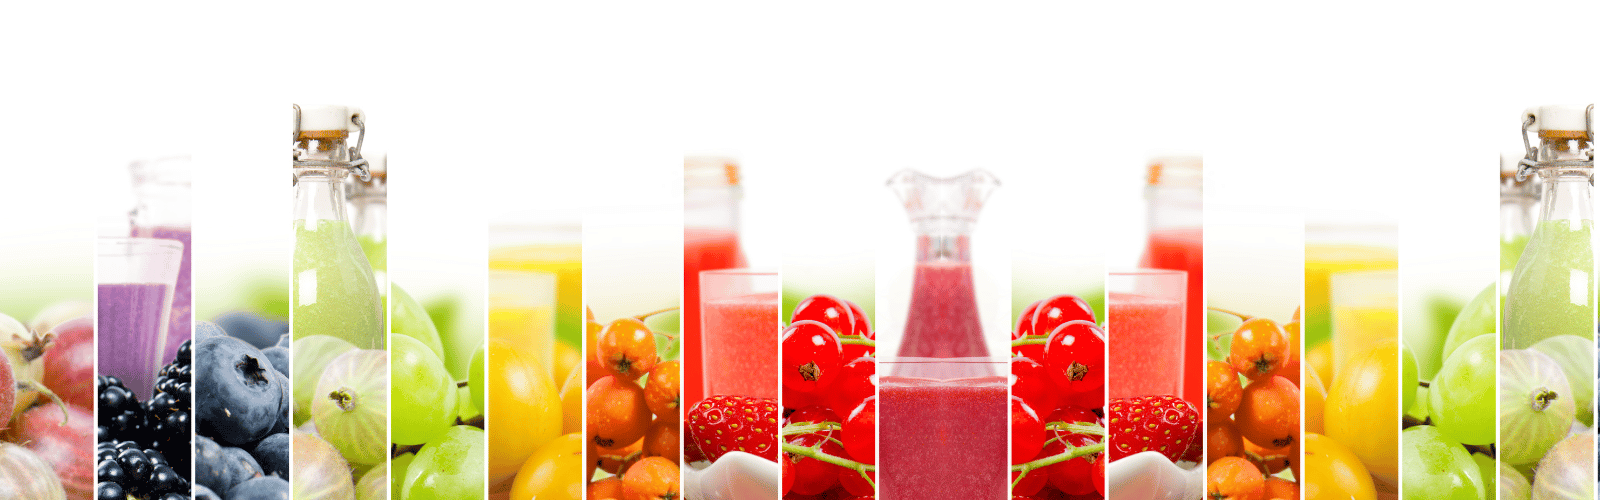
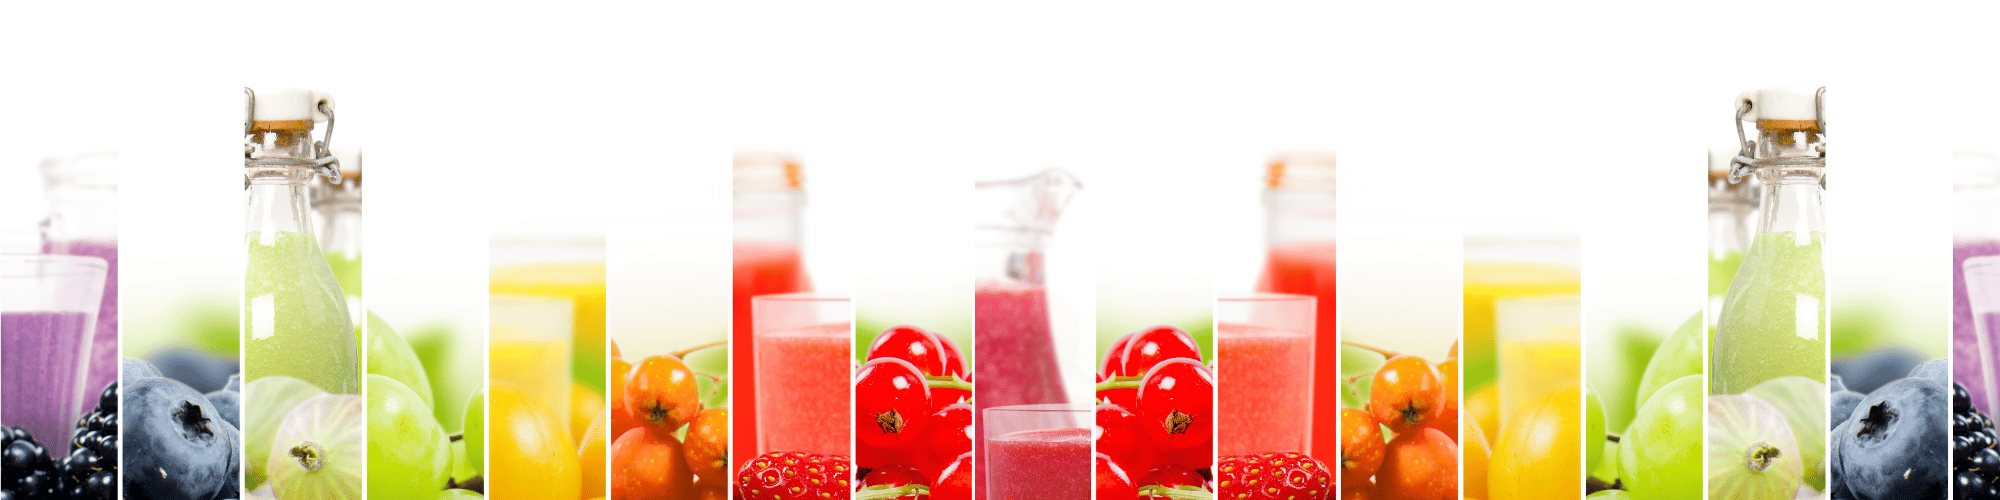
update

diff --git a/bountiful-foods/blog.html b/bountiful-foods/blog.html
@@ -35,7 +35,7 @@
         <picture class="header-img-wrapper">
             <source media="(min-width: 900px)" srcset="images/hero-img-large.webp 1x">
             <source media="(min-width: 400px)" srcset="images/hero-img-med.webp 1x">
-            <img src="images/hero-img-small.webp" alt="hero-image" loading="lazy" width="1200" height="500">
+            <img src="images/hero-img-small.webp" alt="hero-image" loading="lazy" width="1600" height="500">
         </picture>
         <h1>BOUNTIFUL FOODS</h1>
         <h2>HEALTHY FRESH</h2>
@@ -43,9 +43,8 @@
     <main class="main-wrapper">
         <div id="blog-title-wrapper">
             <picture class="blog-img-wrapper">
-                <source media="(min-width: 900px)" srcset="images/food-truck-large.webp 1x">
-                <source media="(min-width: 400px)" srcset="images/food-truck-med.webp 1x">
-                <img src="images/food-truck-small.webp" alt="food-truck" width="1200" height="500" loading="lazy">
+                <source media="(min-width: 400px)" srcset="images/blog-food-truck-med.webp 1x">
+                <img src="images/blog-food-truck-small.webp" alt="food-truck" width="700" height="350" loading="lazy">
             </picture>
             <div id="donation-logo-wrapper">
                 <img src="images/fruit-for-all.webp" alt="fruit" loading="lazy">

diff --git a/bountiful-foods/styles/medium.css b/bountiful-foods/styles/medium.css
@@ -28,8 +28,12 @@
     position: relative;
   }
   .header-img-wrapper{
-    width: 820px;
-    height: 350px;
+    width: 100%;
+    height: 320px; 
+  }
+  .header-img-wrapper img{
+    width: 100%;
+    height: 300px;
   }
 
     
@@ -60,10 +64,12 @@
   .img-wrapper{
     justify-content: center;
     display: flex;
+    width: 100%;
+    height: 350px;
   }
   .img-wrapper img{
   width: 600px;
-  height: 100%;
+  height: 300px;
   }
   p{
     font-size: 20px;
@@ -85,10 +91,6 @@
 
   #weather, .img-wrapper {
     width: 100%;
-  }
-  #weather img{
-    width: 100px;
-    height: 100px;
   }
   .weather-data{
     display: flex;
@@ -188,7 +190,7 @@
     flex-direction: row;
     justify-content: space-around;
     padding: 30px 0;
-    padding: 30px 0 40px 20px
+    padding: 30px 0 40px 0px
   }
   .blog-img-wrapper{
     display: block;
@@ -202,8 +204,8 @@
     flex-direction: row;
   }
   .blog-img-wrapper img {
-    width: 600px;
-    height: 100%;
+    width: 700px;
+    height: 350px;
   }
   #blog-sub-title{
     font-size: 45px;

diff --git a/bountiful-foods/styles/large.css b/bountiful-foods/styles/large.css
@@ -37,12 +37,12 @@
         right: 500px;
     }
     .header-img-wrapper{
-        width: 2000px;
-        height: 500px;
+        width: 100%;
+        height: 520px;
     }
     .header-img-wrapper img{
-        width: 100%;
-        height: 100%;
+        width: 2000px;
+        height: 500px;
     }
      /*-------------Main-----------------------*/
     .paragraph-container {
@@ -59,11 +59,11 @@
     
     .img-wrapper img{
         width: 1200px;
-        height: 100%;
+        height: 500px;
     }
     .img-wrapper{
         width: 100%;
-        padding: 40px;
+        height: 520px;
     }
     #weather{
         width:28%;
@@ -216,8 +216,8 @@ caption{
 /*--------------------blog----------------*/
 
 .blog-img-wrapper img {
-    width: 800px;
-    height: 100%;
+    width: 700px;
+    height: 350px;
 }
 #donation-logo-wrapper img {
     width: 200px;

diff --git a/bountiful-foods/scripts/main.js b/bountiful-foods/scripts/main.js
@@ -1,4 +1,4 @@
-document.querySelector('#year').innerHTML = new Date().toLocaleDateString('en-US', {year: 'numeric'});
+document.getElementById('year').innerHTML = new Date().getFullYear();
 document.getElementById('last-update').textContent = document.lastModified
 
 function toggleMenu()
@@ -6,7 +6,7 @@ function toggleMenu()
     document.getElementById("primaryNav").classList.toggle("open");
     document.getElementById("hamburgerBtn").classList.toggle("open");
 }
-const x = document.getElementById('hamburgerBtn');
+ const x = document.getElementById('hamburgerBtn');
 x.onclick = toggleMenu;
 
 // Get the form count from localStorage and display it on the home page

diff --git a/bountiful-foods/index.html b/bountiful-foods/index.html
@@ -154,7 +154,6 @@
                 <img src="images/pinterest.webp" alt="instagram icon">
             </a>
         </div>
-    </footer> 
-    <script src="scripts/main.js" defer></script>  
+    </footer>  
 </body>
 </html>

diff --git a/bountiful-foods/styles/base.css b/bountiful-foods/styles/base.css
@@ -148,7 +148,7 @@ header {
 }
 .header-img-wrapper{
   border-bottom: 10px solid var(--accent1-color);
-  width: 375px;
+  width: 400px;
   height: 200px;
 }
 .header-img-wrapper img{
